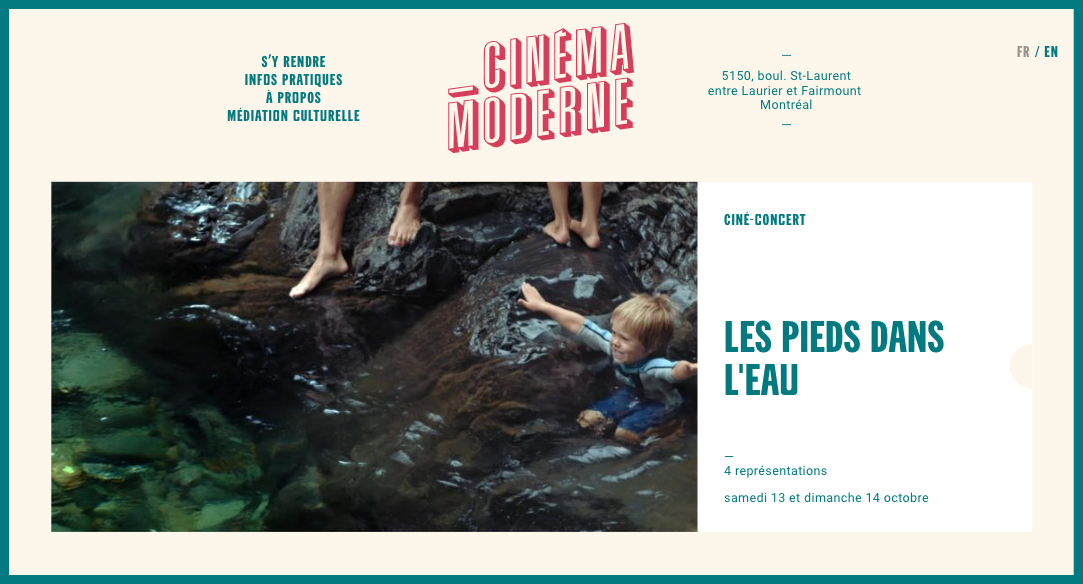
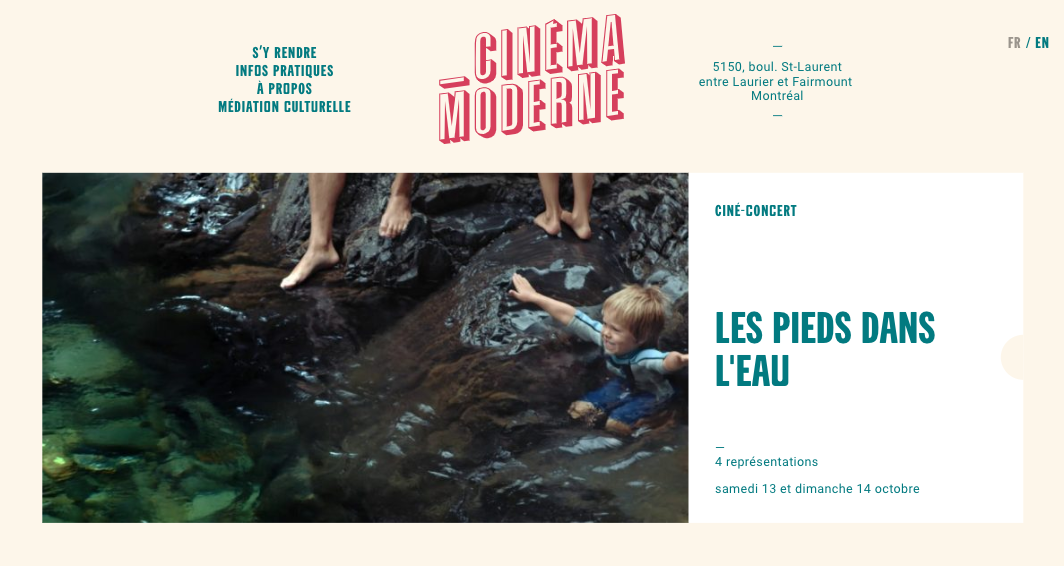
Add border around CM featured image thanks to theme update

diff --git a/content/project/cinemamoderne/index.md b/content/project/cinemamoderne/index.md
@@ -8,6 +8,10 @@ stats:
 project_tags: ["wordpress"]
 ext_url: https://cinemamoderne.com/en
 weight: 20
+resources:
+- src: images/featured.png
+  params:
+    border: true
 ---
 
 So proud to have been part of the launch of new independent Cinema in the heart of Montreal's Mile End neigborood! Thank you [Creatank](https://www.creatank.com/en) for trusting me with this!
